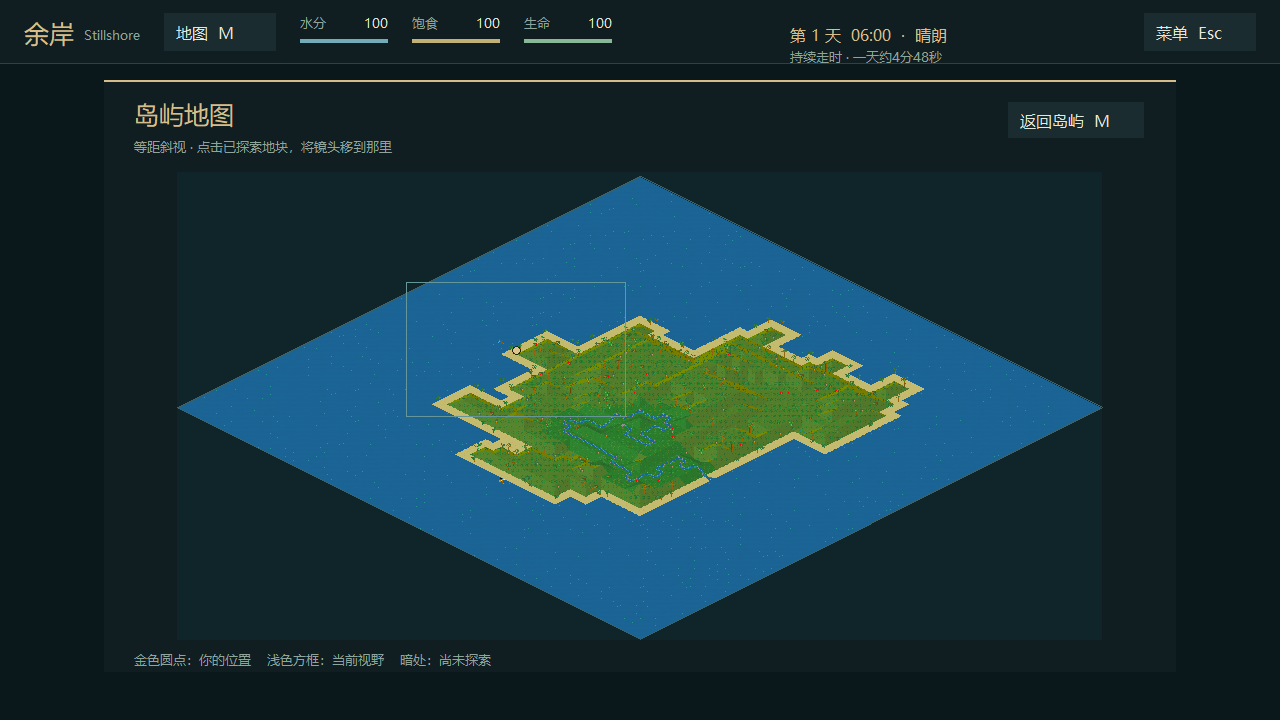
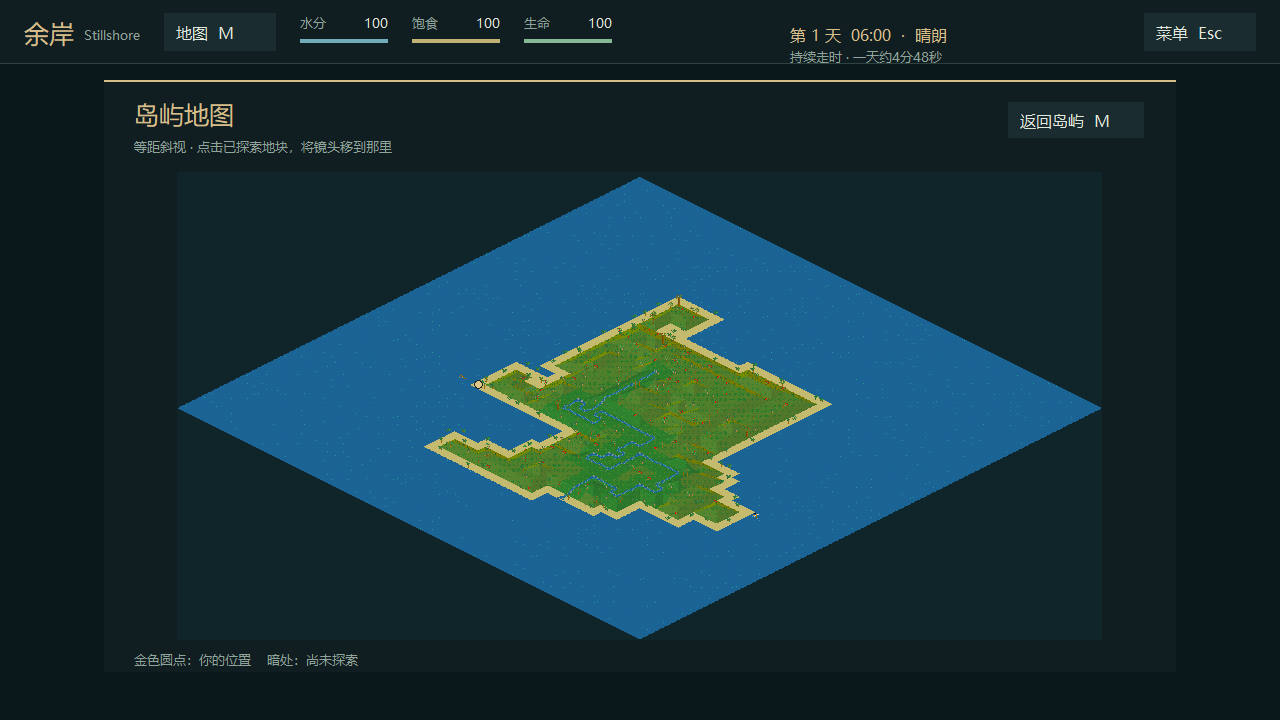
Prevent stale pending updates from reverting builds and remove map frames

Changed region(s): [[0.3125, 0.3972, 0.7188, 0.7333], [0.2188, 0.8861, 0.375, 0.9472]]

diff --git a/src/MapView.cpp b/src/MapView.cpp
@@ -9,23 +9,9 @@ namespace MapView
 {
     namespace
     {
-        constexpr COLORREF Ink=RGB(16,37,42),Gold=RGB(224,197,139),Border=RGB(65,98,99);
-        void outline(HDC dc,const MapProjection::Frame& frame)
-        {
-            std::array<POINT,5> points{};int i=0;
-            for(const auto corner:std::array<MapProjection::Coordinate,5>{{{-.5,-.5},{59.5,-.5},{59.5,59.5},{-.5,59.5},{-.5,-.5}}})
-            {const auto world=MapProjection::TileCenter(corner.x,corner.y);const auto p=frame.project(world.x,world.y);points[i++]={p.x,p.y};}
-            auto pen=CreatePen(PS_SOLID,1,Border);auto previous=SelectObject(dc,pen);Polyline(dc,points.data(),int(points.size()));SelectObject(dc,previous);DeleteObject(pen);
-        }
+        constexpr COLORREF Ink=RGB(16,37,42),Gold=RGB(224,197,139);
         void markers(HDC dc,const MapProjection::Frame& frame,bool large)
         {
-            if(large)
-            {
-            const auto crop=SceneView::Crop();
-            const auto a=frame.project(Camera.x+crop.left,Camera.y+crop.top),b=frame.project(Camera.x+crop.right,Camera.y+crop.bottom);
-            auto pen=CreatePen(PS_SOLID,1,RGB(101,150,153));auto previousPen=SelectObject(dc,pen);auto previousBrush=SelectObject(dc,GetStockObject(HOLLOW_BRUSH));
-            Rectangle(dc,a.x,a.y,b.x,b.y);SelectObject(dc,previousBrush);SelectObject(dc,previousPen);DeleteObject(pen);
-            }
             const auto player=frame.project(Guy.PosScreen.x,Guy.PosScreen.y);const int r=large?4:2;
             HPEN pen;HGDIOBJ previousPen,previousBrush;
             auto brush=CreateSolidBrush(Gold);pen=CreatePen(PS_SOLID,1,RGB(30,39,36));previousBrush=SelectObject(dc,brush);previousPen=SelectObject(dc,pen);
@@ -73,7 +59,7 @@ namespace MapView
             if(object==FEUER){const auto bounds=Campfires::Sprite(t);px=bounds.x;py=bounds.y;w=bounds.w;h=bounds.h;}
             const auto a=frame.project(px,py),end=frame.project(px+w,py+h);RECT target{a.x,a.y,end.x,end.y};lpDDSBack->Blt(&target,b.Surface,&sprite,DDBLT_KEYSRC,nullptr);
         }
-        HDC dc=nullptr;lpDDSBack->GetDC(&dc);const int saved=SaveDC(dc);IntersectClipRect(dc,134,172,1146,640);outline(dc,frame);markers(dc,frame,true);RestoreDC(dc,saved);lpDDSBack->ReleaseDC(dc);
+        HDC dc=nullptr;lpDDSBack->GetDC(&dc);const int saved=SaveDC(dc);IntersectClipRect(dc,134,172,1146,640);markers(dc,frame,true);RestoreDC(dc,saved);lpDDSBack->ReleaseDC(dc);
     }
     bool Focus(int x,int y,const MapProjection::Frame& frame)
     {

diff --git a/scripts/package_release.py b/scripts/package_release.py
@@ -2,13 +2,15 @@
 
 import argparse
 import hashlib
+import re
+import sys
 from pathlib import Path
 import subprocess
 import zipfile
 
 
 ROOT = Path(__file__).resolve().parents[1]
-VERSION = "v0.1.0-preview.11"
+VERSION = "v0.1.0-preview.12"
 NAME = f"Stillshore-{VERSION}"
 RUNTIME_FOLDER = "余岸-Stillshore"
 DOCUMENTS = (
@@ -86,6 +88,28 @@ def main():
     cache = ROOT / "build-release" / "CMakeCache.txt"
     if cache.exists() and "SCHIFFBRUCH_QA_PREVIEW:BOOL=OFF" not in cache.read_text(encoding="utf-8"):
         parser.error("Release build has QA preview enabled")
+
+    expected = tuple(map(int,re.fullmatch(r"v(\d+)\.(\d+)\.(\d+)-preview\.(\d+)",VERSION).groups()))
+    resource = (ROOT / "src" / "Schiffbruch.rc").read_text(encoding="utf-8")
+    declared = re.search(r"FILEVERSION\s+(\d+),(\d+),(\d+),(\d+)",resource)
+    if not declared or tuple(map(int,declared.groups())) != expected:
+        parser.error("Windows file version does not match package version")
+    if sys.platform == "win32":
+        import ctypes
+        from ctypes import wintypes
+        native = ctypes.WinDLL("version",use_last_error=True)
+        native.GetFileVersionInfoSizeW.argtypes=[wintypes.LPCWSTR,ctypes.c_void_p]
+        size=native.GetFileVersionInfoSizeW(str(exe),None)
+        if not size:parser.error("Executable lacks Windows version metadata")
+        data=ctypes.create_string_buffer(size)
+        native.GetFileVersionInfoW.argtypes=[wintypes.LPCWSTR,wintypes.DWORD,wintypes.DWORD,ctypes.c_void_p]
+        if not native.GetFileVersionInfoW(str(exe),0,size,data):parser.error("Cannot read executable version")
+        info=ctypes.c_void_p();length=wintypes.UINT()
+        native.VerQueryValueW.argtypes=[ctypes.c_void_p,wintypes.LPCWSTR,ctypes.POINTER(ctypes.c_void_p),ctypes.POINTER(wintypes.UINT)]
+        if not native.VerQueryValueW(data,"\\",ctypes.byref(info),ctypes.byref(length)):parser.error("Missing fixed file version")
+        words=ctypes.cast(info,ctypes.POINTER(wintypes.DWORD))
+        actual=(words[2]>>16,words[2]&65535,words[3]>>16,words[3]&65535)
+        if actual != expected:parser.error("Executable build is older than the release metadata")
 
     output.mkdir(parents=True, exist_ok=True)
     binaries = [path for path in (runtime / "bin").iterdir() if path.is_file() and path.suffix.lower() in {".exe", ".dll"}]

diff --git a/src/ModernUI.cpp b/src/ModernUI.cpp
@@ -399,7 +399,7 @@ namespace ModernUI
         button(100,330,284,50,L"继续旅程",[]{StartGame(false);},saved);
         button(100,394,284,50,L"新的旅程",[]{if(std::filesystem::exists("save.dat"))confirmNew=true;else StartGame(true);});
         button(100,458,136,42,L"设置",[]{paused=true;settings=true;});button(248,458,136,42,L"退出",[]{quit=true;});
-        txt(100,628,L"全中文界面 · 单击移动 · 一键制作",13,MUTED);txt(100,659,L"按回车继续，按 Esc 打开菜单。",13,MUTED);end();
+        txt(100,628,L"全中文界面 · 单击移动 · 一键制作",13,MUTED);txt(100,659,L"按回车继续，按 Esc 打开菜单。  ·  v0.1.0-preview.12",13,MUTED);end();
         DrawOverlay();NativeDisplay::Present();
     }
     void DrawCredits()
@@ -459,9 +459,9 @@ namespace ModernUI
             txt(134,98,L"岛屿地图",25,GOLD);txt(134,137,L"等距斜视 · 点击已探索地块，将镜头移到那里",13,MUTED);
             button(1008,102,136,36,L"返回岛屿  M",[]{mapOpen=false;Direct::Reset();});
             MapView::DrawOverview();
-            txt(134,650,L"金色圆点：你的位置    浅色方框：当前视野    暗处：尚未探索",13,MUTED);end();return;
+            txt(134,650,L"金色圆点：你的位置    暗处：尚未探索",13,MUTED);end();return;
         }
-        begin(lpDDSBack);modalPanel(safety?L"生命危急 · 已自动暂停":confirmNew?L"开始新的旅程":journal?L"生存手记":settings?L"游戏设置":L"暂停旅程");
+        begin(lpDDSBack);modalPanel(safety?L"生命危急 · 已自动暂停":confirmNew?L"开始新的旅程":journal?L"生存手记":settings?L"游戏设置":L"暂停旅程 · v0.1.0-preview.12");
         if(safety)
         {
             txt(326,231,L"当前行动已停止，请先处理生存需要。",16,GOLD);

diff --git a/src/Application.cpp b/src/Application.cpp
@@ -154,7 +154,11 @@ bool Application::checkRevision()
         ModernUI::HandleClick(rcKarte.left+1,rcKarte.top+1);
         require(Camera.x==mapCamera.x&&Camera.y==mapCamera.y,"minimap blank corner moved the camera");
         ModernUI::HandleKey(sf::Keyboard::M);require(ModernUI::OverlayActive(),"map key did not open the isometric overview");
-        Renderer::Zeige();const auto mapZoom=PaceRules::zoomStep;ModernUI::HandleWheel(1,600,400);
+        Renderer::Zeige();
+        {const auto* px=reinterpret_cast<const unsigned*>(lpDDSBack->pixels());
+        for(int y=172;y<640;++y)for(int x=134;x<1146;++x)
+            require((px[y*1280+x]&0xffffff)!=0x416263&&(px[y*1280+x]&0xffffff)!=0x659699,"map overview still renders outline or viewport box");}
+        const auto mapZoom=PaceRules::zoomStep;ModernUI::HandleWheel(1,600,400);
         for(int i=0;i<20;++i)GameClock::Advance(100000,true);
         int seenAfterMap=0;for(const auto& column:Scape)for(const auto& t:column)seenAfterMap+=t.Entdeckt;
         require(seenAfterMap==seenBeforeMap&&Minuten==mapMinute&&PaceRules::zoomStep==mapZoom,"viewing the map revealed fog, spent time or changed world zoom");
@@ -438,7 +442,7 @@ Application::Application(const std::string& name, HINSTANCE instance_handle)
       , m_time(std::time(nullptr))
 {
     // Set globals
-    m_window.setTitle(sf::String(L"余岸 Stillshore"));
+    m_window.setTitle(sf::String(L"余岸 Stillshore · v0.1.0-preview.12"));
     // Gameplay has no text fields; keep Chinese IME composition from consuming shortcuts.
     ImmAssociateContext(m_window.getSystemHandle(),nullptr);
     // Start with readable text on high-resolution displays; the window remains resizable.

diff --git a/docs/更新与版本.md b/docs/更新与版本.md
@@ -1,0 +1,9 @@
+# 更新与版本核对
+
+发布时同步修改 scripts/package_release.py、src/Schiffbruch.rc 中的固定文件版本与产品版本，以及窗口/主菜单的版本显示。打包脚本会读取 EXE 的实际 Windows 文件版本并核对，避免把旧程序包装成新版本。
+
+本地玩家安装在 workspace 的“漂流之境-交互修正版-探索优化版”目录，快捷方式“余岸 Stillshore.lnk”指向该目录的开始游戏.vbs。不要覆盖 save.dat。安装前备份 EXE、存档和启动器，并检查正在运行的进程完整路径。
+
+未运行时复制已验证 EXE 后，务必备份并删除残留 bin/Schiffbruch.pending；否则旧启动器会在下次启动时覆盖新程序。运行中只能暂存新版 pending，更新后的启动器按固定文件版本比较，阻止旧版本回退。preview.11 及更早版本沿用原作 1.3.0.0，属于迁移时识别的旧版本。
+
+更新后检查实际启动入口的 EXE SHA256 与已验证构建一致，存档哈希不变，标题显示正确版本。qa-launcher-test 中的测试使用虚拟存档和替换为仅输出版本的启动器，验证旧更新被拒绝、新更新可安装，并且更新文件会清理；不在玩家目录运行 --revision-check。

diff --git a/docs/游玩指南.md b/docs/游玩指南.md
@@ -4,7 +4,7 @@
 
 ## 菱形地图
 
-点击顶部“地图 M”或按 `M` 打开岛屿总览，按 `M`、`Esc` 或“返回岛屿”关闭。小地图和总览沿用人物场景的等距斜视，正方形网格看起来呈菱形，陆地轮廓每局仍会随机生成。金色圆点标记人物；右上角小地图不显示外框和视野框，总览中保留视野提示。
+点击顶部“地图 M”或按 `M` 打开岛屿总览，按 `M`、`Esc` 或“返回岛屿”关闭。小地图和总览沿用人物场景的等距斜视，正方形网格看起来呈菱形，陆地轮廓每局仍会随机生成。金色圆点标记人物；小地图与总览均不显示菱形外框或视野方框。
 
 点击已探索地块只把镜头移到该处；人物继续原来的行动。地图外的空白角落及尚未探索区域不响应定位。查看总览期间暂停生存时间、行动和火堆燃烧，关闭后继续。
 

diff --git a/README.md b/README.md
@@ -14,6 +14,8 @@
 
 *上图为测试岛屿完整揭示后的等距总览；实际游玩从人物周围逐步探索，不会提前揭开整座岛屿。*
 
+v0.1.0-preview.12 同时移除了小地图和总览的框线，并修复启动更新时可能覆盖回旧版的问题。主菜单与窗口标题可查看版本号。
+
 ## 下载与开始
 
 前往 [schiffbruch-zh 下载页](https://github.com/Owful/schiffbruch-zh/releases) 或 [Stillshore 下载页](https://github.com/Owful/stillshore/releases)，下载最新的 `Stillshore-…-Windows-x64.zip`，完整解压 **余岸-Stillshore** 文件夹，双击 **开始游戏.vbs**；如果系统禁止运行脚本，也可以直接打开 `bin/Schiffbruch.exe`。首次游玩选“新的旅程”。两个仓库提供相同版本的下载包，不含个人存档。

diff --git a/CHANGELOG.md b/CHANGELOG.md
@@ -1,5 +1,12 @@
 # 更新记录
 
+## 0.1.0-preview.12 — 2026-10-31
+
+- 小地图与地图总览统一移除菱形外框和视野矩形。
+- 主菜单、窗口标题和暂停菜单显示版本号，便于确认启动版本。
+- 修复本地更新时遗留旧待安装文件导致程序回退的问题，启动器拒绝安装更旧的更新文件。
+
+
 ## 0.1.0-preview.11 — 2026-10-31
 
 - 小地图去掉菱形边框和视野矩形，只保留探索地形与人物标记。
